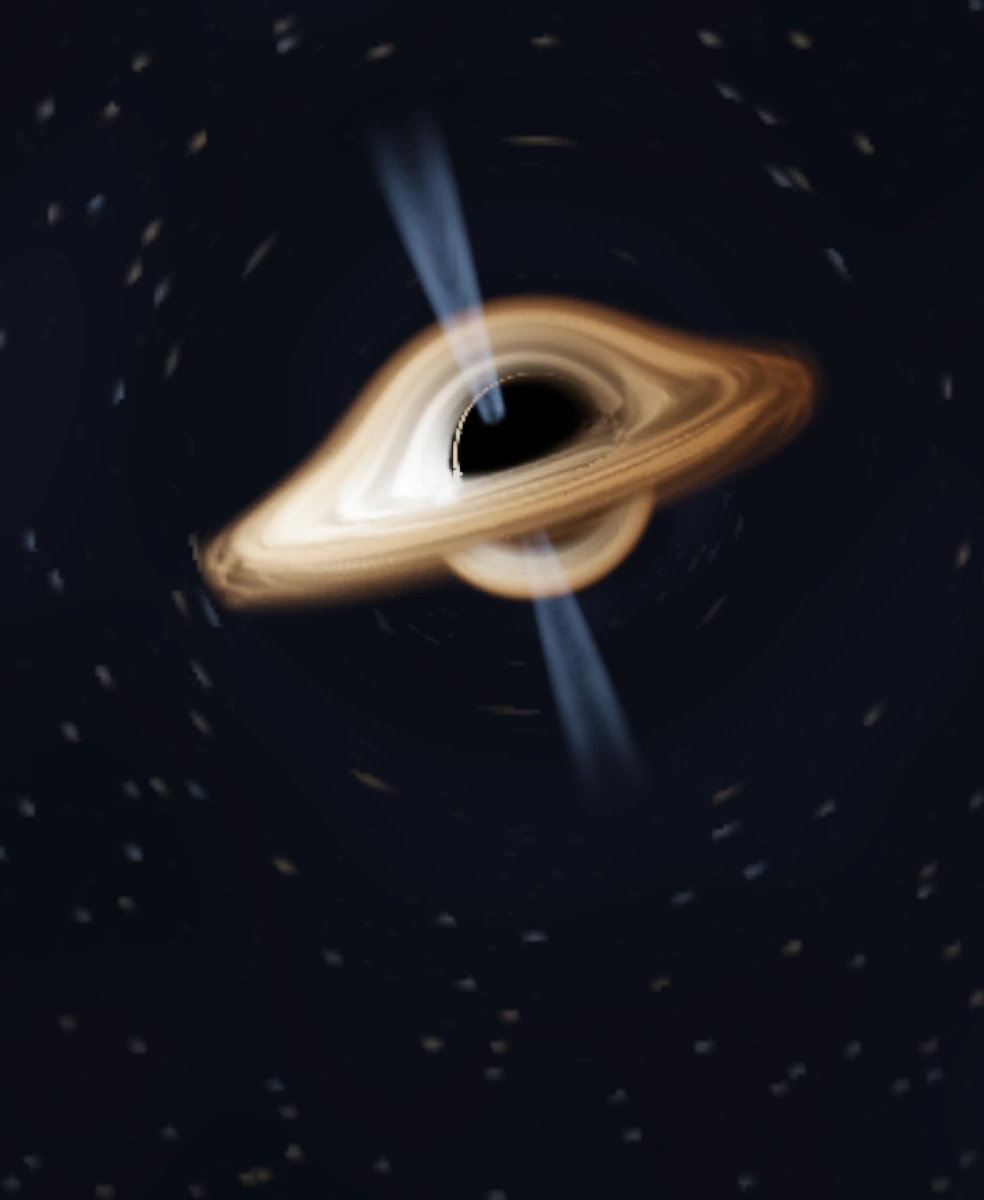
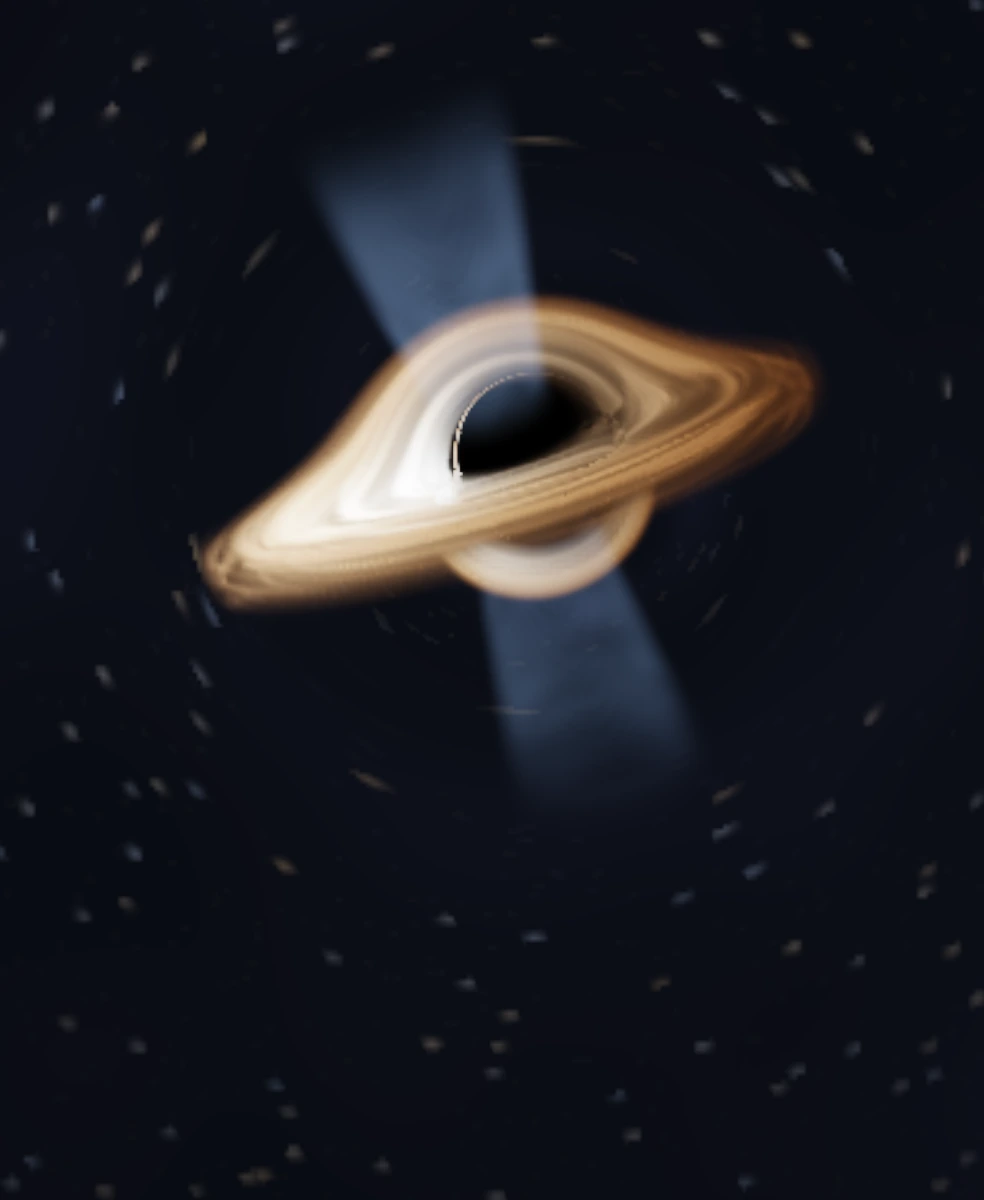
Widen hollow jets and soften their connection to the black hole

Changed region(s): [[0.3049, 0.0925, 0.5793, 0.37], [0.4878, 0.4317, 0.7012, 0.6475]]

diff --git a/assets/js/academic-black-hole.js b/assets/js/academic-black-hole.js
@@ -6,7 +6,7 @@
   'use strict';
   const canvas = document.getElementById('academic-black-hole');
   if (!canvas) return;
-  const VERSION = '20261003-jet4';
+  const VERSION = '20261003-jet-wide5';
   const baseUrl = new URL('../shaders/', document.currentScript.src);
   const reducedMotion = matchMedia('(prefers-reduced-motion: reduce)');
   const mobile = matchMedia('(max-width: 820px), (pointer: coarse)');
@@ -82,8 +82,8 @@
   // Disk and jet slots are fixed independently. Three packed uint words per
   // material node are regrouped into RGBA32UI packets for transform feedback.
   let nodeCount = 8;
-  let jetNodeCount = 4;
-  let packetTexels = 10;
+  let jetNodeCount = 6;
+  let packetTexels = 12;
   let rayStrideBytes = 0;
   let totalRays = 0;
   let noise;
@@ -190,14 +190,14 @@
     const maximum = gl.getParameter(gl.MAX_TEXTURE_SIZE);
     const maximumComponents = gl.getParameter(gl.MAX_TRANSFORM_FEEDBACK_INTERLEAVED_COMPONENTS);
     nodeCount = low ? 6 : economyDesktop() ? 8 : 12;
-    jetNodeCount = low || economyDesktop() ? 4 : 6;
+    jetNodeCount = 6;
     const packetsFor = (diskNodes, jetNodes) => Math.ceil((3 * (diskNodes + jetNodes) + 4) / 4);
     packetTexels = packetsFor(nodeCount, jetNodeCount);
     if (maximumComponents < 4 * packetTexels && nodeCount > 8) {
-      nodeCount = 8; jetNodeCount = 4; packetTexels = packetsFor(nodeCount, jetNodeCount);
+      nodeCount = 8; packetTexels = packetsFor(nodeCount, jetNodeCount);
     }
     if (maximumComponents < 4 * packetTexels) {
-      nodeCount = 6; jetNodeCount = 4; packetTexels = packetsFor(nodeCount, jetNodeCount);
+      nodeCount = 6; packetTexels = packetsFor(nodeCount, jetNodeCount);
     }
     if (maximumComponents < 4 * packetTexels) throw new Error('Packed transform feedback unavailable');
     const desired = low ? 384 : economyDesktop() ? 640 : 960;

diff --git a/tests/black-hole-volume.html b/tests/black-hole-volume.html
@@ -20,7 +20,7 @@ button:disabled{opacity:.5}pre{padding:18px;background:#1e293b;border-radius:8px
 'use strict';
 const requestedNodes=Number(new URLSearchParams(location.search).get("nodes")) || 8;
 const NODE_COUNT=[6,8,12].includes(requestedNodes) ? requestedNodes : 8;
-const JET_NODE_COUNT=NODE_COUNT===12?6:4,MAX_PASSAGES=2;
+const JET_NODE_COUNT=6,MAX_PASSAGES=2;
 const MAP_SIZE=65,SKY_WORD_OFFSET=3*(NODE_COUNT+JET_NODE_COUNT);
 const PACKET_TEXELS=Math.ceil((SKY_WORD_OFFSET+4)/4),WORDS_PER_RAY=4*PACKET_TEXELS;
 const statusNode=document.querySelector('#status'),resultsNode=document.querySelector('#results');
@@ -228,6 +228,11 @@ runButton.addEventListener('click',async()=>{
       rule:'separate disk/jet banks, each split into two fixed half-banks; six half-floats per node, sky and zero padding follow'};
     metrics.geometry={spin:config.spin,inner:config.inner,outer:config.outer,
       height:{base:height.base,slope:height.slope,start:height.start},jet:config.jet,edgeToleranceRs:config.edgeTolerance};
+    // heightContract requires a nonnegative flare, so the outer edge bounds
+    // the entire disk cache. Separate material supports must not touch.
+    metrics.supportSeparationRs=config.jet.start-1.05*height.at(config.outer);
+    requireCondition(metrics.supportSeparationRs>0,
+      'Disk and jet cache supports overlap or touch; separation is '+metrics.supportSeparationRs+' Rs.');
     const hash=await crypto.subtle.digest('SHA-256',new TextEncoder().encode(sources.join('\n')));
     metrics.productionSHA256=Array.from(new Uint8Array(hash),value=>value.toString(16).padStart(2,'0')).join('');
     gl=document.querySelector('#gpu').getContext('webgl2',{antialias:false,depth:false,stencil:false});

diff --git a/academics.html b/academics.html
@@ -9,7 +9,7 @@
   <title>学术集 | CMC</title>
   <link rel="stylesheet" href="/assets/css/style.css">
   <link rel="stylesheet" href="/assets/css/site-ui.css?v=20260911-shared-ui">
-  <link rel="stylesheet" href="/assets/css/academics.css?v=20261003-jet4">
+  <link rel="stylesheet" href="/assets/css/academics.css?v=20261003-jet-wide5">
   <link rel="stylesheet" href="/assets/css/liquid-glass.css?v=20260911-glass1">
 </head>
 <body class="ui-page academic-cosmos glass-ui">
@@ -66,7 +66,7 @@
 
   <footer class="site-footer"><div class="container footer-wrap"><span>© <span id="year"></span> CMC</span></div></footer>
   <script src="/assets/js/main.js"></script>
-  <script src="/assets/js/academic-black-hole.js?v=20261003-jet4" defer></script>
+  <script src="/assets/js/academic-black-hole.js?v=20261003-jet-wide5" defer></script>
   <script src="/assets/js/site-ui.js?v=20260911-shared-ui" defer></script>
   <script src="/assets/js/liquid-glass.js?v=20260911-glass1" defer></script>
 </body>

diff --git a/assets/css/academics.css b/assets/css/academics.css
@@ -22,7 +22,7 @@ body.academic-cosmos{
   overflow:hidden;
   pointer-events:none;
   /* Match the renderer's height-based projection and the same image anchor. */
-  background:#030710 url("../images/academic-npgs-desktop.webp?v=20261003-jet4") var(--cosmos-center-x) var(--cosmos-center-y) / auto 100% no-repeat;
+  background:#030710 url("../images/academic-npgs-desktop.webp?v=20261003-jet-wide5") var(--cosmos-center-x) var(--cosmos-center-y) / auto 100% no-repeat;
 }
 
 .academic-cosmos .cosmos-bg canvas{
@@ -167,7 +167,7 @@ body.academic-cosmos{
     --cosmos-center-x:52%;
     --cosmos-center-y:39%;
     --cosmos-view-span:36;
-    background-image:url("../images/academic-npgs-mobile.webp?v=20261003-jet4");
+    background-image:url("../images/academic-npgs-mobile.webp?v=20261003-jet-wide5");
   }
 
   .academic-cosmos .cosmos-bg::after{
